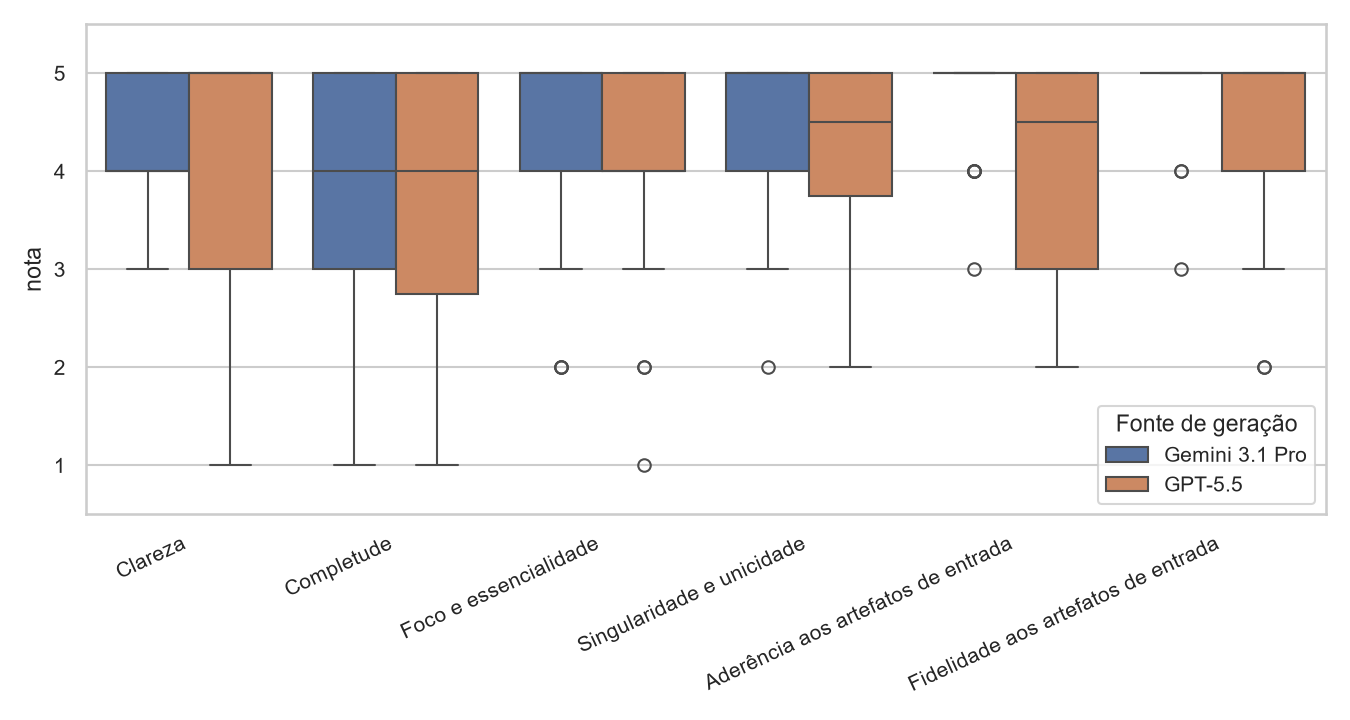
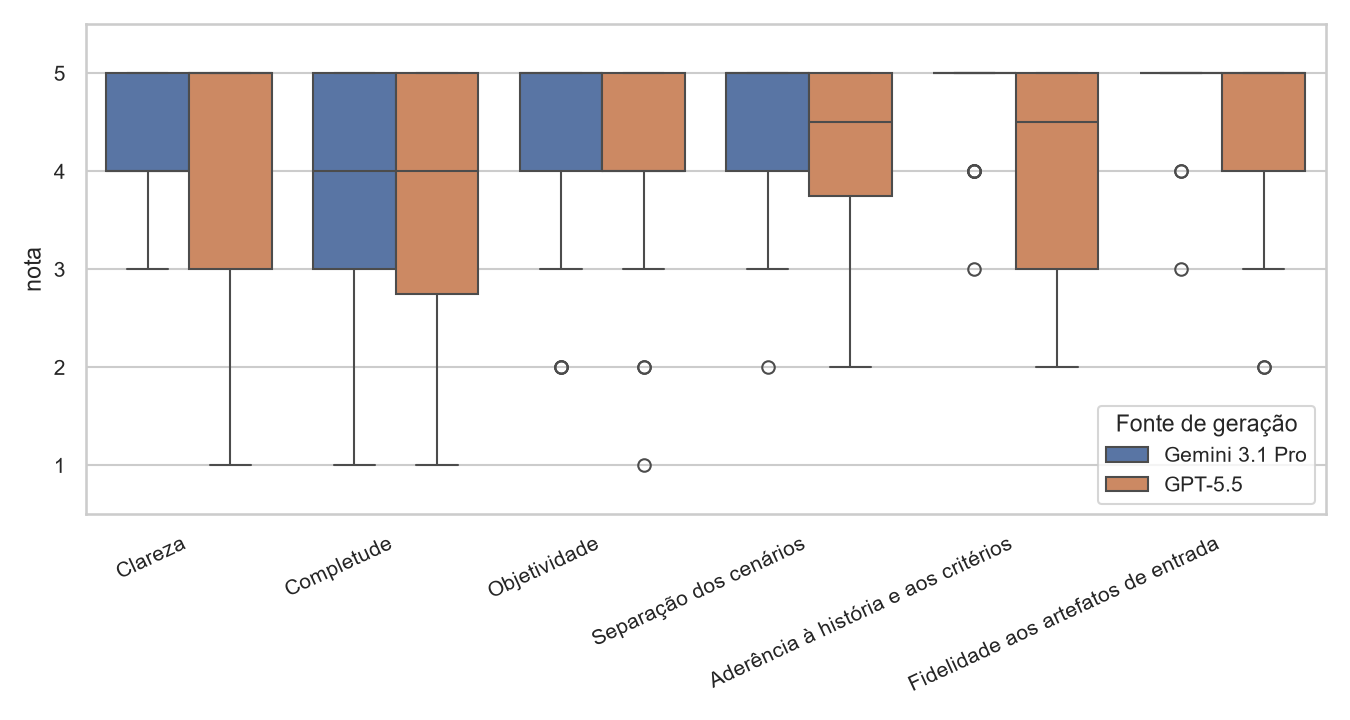
Ajustes finos

diff --git a/análise/analise_bdd.py b/análise/analise_bdd.py
@@ -1,37 +1,15 @@
 """
-analise_bdd.py — versão enxuta
-===============================
-
-Pipeline ESSENCIAL de análise dos dados de avaliação humana de cenários
+Pipeline de análise dos dados de avaliação humana de cenários
 BDD/Gherkin gerados por IA generativa (GPT-5.5 e Gemini 3.1 Pro).
-
-Esta é uma versão deliberadamente enxuta: cada etapa existe porque responde
-a uma questão de pesquisa específica (QP1-QP4) ou à pergunta geral do TCC.
-Técnicas de reforço de rigor que não respondem a nenhuma QP diretamente
-(correlação entre critérios, teste de Friedman, confiabilidade entre
-avaliadores/ICC, comparação pareada por história, correção para múltiplas
-comparações) foram deixadas de fora para reduzir a curva de aprendizado —
-ver protocolo_analise_dados.md para a justificativa de cada corte.
-
-O único conceito estatístico novo neste script é o teste U de Mann-Whitney
-(Etapas 3 e 4), usado uma única vez sobre o índice composto de qualidade em
-cada comparação — não por critério — para evitar de saída o problema de
-comparações múltiplas (que exigiria aprender também correção de p-valor).
-
-Como usar:
-    1. Coloque este script na mesma pasta do arquivo
-       'respostas_consolidadas_tcc.csv' (ou ajuste CSV_PATH abaixo).
-    2. pip install pandas numpy scipy matplotlib seaborn --break-system-packages
-    3. python analise_bdd.py
-    4. Resultados (tabelas .csv e o gráfico .png) são salvos em ./resultados/
 """
 
 import os
 import numpy as np
 import pandas as pd
+import pingouin as pg
 from scipy import stats
 import matplotlib
-matplotlib.use("Agg")  # remova esta linha se for rodar em Jupyter com exibição inline
+matplotlib.use("Agg")
 import matplotlib.pyplot as plt
 import seaborn as sns
 
@@ -52,14 +30,13 @@ CRITERIOS = [
 NOMES_CRITERIOS = {
     "clareza": "Clareza",
     "completude": "Completude",
-    "objetividade": "Foco e essencialidade",
-    "separacao_cenarios": "Singularidade e unicidade",
-    "aderencia_historia_criterios": "Aderência aos artefatos de entrada",
+    "objetividade": "Objetividade",
+    "separacao_cenarios": "Separação dos cenários",
+    "aderencia_historia_criterios": "Aderência à história e aos critérios",
     "fidelidade_artefatos_entrada": "Fidelidade aos artefatos de entrada",
 }
 
 sns.set_theme(style="whitegrid", font_scale=0.9)
-
 
 # ---------------------------------------------------------------------------
 # ETAPA 0 — Carregamento e checagem de consistência dos dados
@@ -76,9 +53,8 @@ def carregar_dados(caminho=CSV_PATH):
 
 def checar_desenho_experimental(df):
     """Confirma que o dado coletado corresponde ao desenho planejado (Seção 5.8
-    do TCC): 6 avaliações por conjunto, 4 blocos por participante, 3 Senior +
-    3 Junior por conjunto. Puramente uma checagem de integridade — não exige
-    nenhum conceito estatístico."""
+    do TCC): 6 avaliações por conjunto, 4 blocos por participante, 3 com experiência de mais de 2 anos +
+    3 com experiência entre 1 e 2 anos."""
     problemas = []
     if not (df.groupby("historia_conjunto")["id_resposta"].nunique() == 6).all():
         problemas.append("Nem todo historia_conjunto tem exatamente 6 avaliações.")
@@ -86,7 +62,7 @@ def checar_desenho_experimental(df):
         problemas.append("Nem todo participante respondeu exatamente 4 blocos.")
     bal = pd.crosstab(df["historia_conjunto"], df["grupo_experiencia"])
     if not (bal == 3).all().all():
-        problemas.append("Balanceamento Senior/Junior por conjunto diferente de 3/3.")
+        problemas.append("Balanceamento de experiência por conjunto diferente de 3/3.")
     return problemas if problemas else ["OK — desenho consistente com o planejado."]
 
 
@@ -95,15 +71,11 @@ def checar_desenho_experimental(df):
 # (QP1, QP2, pergunta de pesquisa geral)
 # ---------------------------------------------------------------------------
 def cronbach_alpha(itens_df):
-    """Alfa de Cronbach: mede se os 6 critérios são consistentes o bastante
-    entre si para justificar resumi-los em um único índice composto
-    ('qualidade_geral'). Regra prática: <0,60 questionável; 0,70-0,90 boa
-    consistência; >0,90 ótima (por vezes redundante demais)."""
     itens_df = itens_df.dropna()
-    k = itens_df.shape[1]
-    var_itens = itens_df.var(axis=0, ddof=1).sum()
-    var_total = itens_df.sum(axis=1).var(ddof=1)
-    return (k / (k - 1)) * (1 - var_itens / var_total)
+
+    alpha, intervalo_confianca = pg.cronbach_alpha(data=itens_df)
+
+    return alpha, intervalo_confianca
 
 
 def estatisticas_descritivas(df, out_dir=OUT_DIR):
@@ -223,10 +195,12 @@ def main():
         print("   -", msg)
     print(f"   {df.shape[0]} avaliações | {df['id_resposta'].nunique()} participantes | "
           f"{df['historia_conjunto'].nunique()} conjuntos avaliados")
-
+  
     print("\n>> Etapa 1: estatística descritiva + índice composto + alfa de Cronbach...")
-    alpha = cronbach_alpha(df[CRITERIOS])
-    print(f"   Alfa de Cronbach (consistência interna dos 6 critérios): {alpha:.3f}")
+    alpha, intervalo_confianca = cronbach_alpha(df[CRITERIOS])
+    print(f"Alfa de Cronbach: {alpha:.3f}")
+    print(f"Intervalo de confiança de 95%: " f"[{intervalo_confianca[0]:.3f}, {intervalo_confianca[1]:.3f}]")
+    
     estatisticas_descritivas(df)
     print("   Qualidade geral por modelo:",
           df.groupby("modelo_fonte_controle_interno")["qualidade_geral"].mean().round(2).to_dict())
